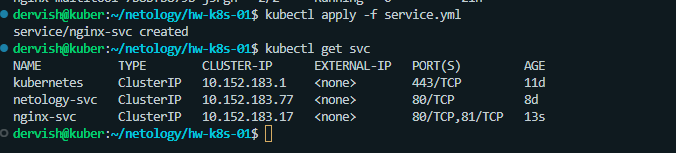
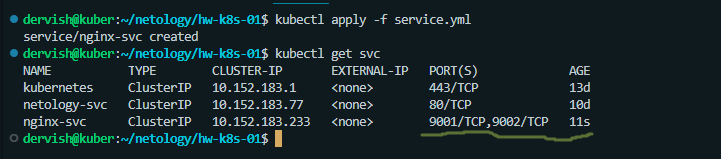
all done

diff --git a/README.md b/README.md
@@ -1,58 +1,59 @@
-# Домашнее задание к занятию «Запуск приложений в K8S»
+# Домашнее задание к занятию «Сетевое взаимодействие в K8S. Часть 1»
 
 ## Цель задания
 
-В тестовой среде для работы с Kubernetes, установленной в предыдущем ДЗ, необходимо развернуть Deployment с приложением, состоящим из нескольких контейнеров, и масштабировать его.
+В тестовой среде Kubernetes необходимо обеспечить доступ к приложению, установленному в предыдущем ДЗ и состоящему из двух контейнеров, по разным портам в разные контейнеры как внутри кластера, так и снаружи.
 
 ## Чеклист готовности к домашнему заданию
 
 
-    Личный компьютер с ОС Linux или MacOS
+    Установленное k8s-решение (например, MicroK8S).
+    Установленный локальный kubectl.
+    Редактор YAML-файлов с подключённым Git-репозиторием.
 
-или
-    
-    ВМ c ОС Linux в облаке либо ВМ на локальной машине для установки MicroK8S
 
-## Задание 1. Создать Deployment и обеспечить доступ к репликам приложения из другого Pod
+## Задание 1. Создать Deployment и обеспечить доступ к контейнерам приложения по разным портам из другого Pod внутри кластера
 
-Создать Deployment приложения, состоящего из двух контейнеров — nginx и multitool. Решить возникшую ошибку.
+Создать Deployment приложения, состоящего из двух контейнеров (nginx и multitool), с количеством реплик 3 шт.
 
 >Ответ: [deploy.yml](./deploy.yml)
 
 ![deploy](./task1/deploy.png)
 
-После запуска увеличить количество реплик работающего приложения до 2.
-Продемонстрировать количество подов до и после масштабирования.
-
-![scaled](./task1/scaled.png)
-
-Создать Service, который обеспечит доступ до реплик приложений из п.1.
+Создать Service, который обеспечит доступ внутри кластера до контейнеров приложения из п.1 по порту 9001 — nginx 80, по 9002 — multitool 8080.
 
 >Ответ: [service.yml](./service.yml)
 
 ![service](./task1/service.png)
 
-Создать отдельный Pod с приложением multitool и убедиться с помощью curl, что из пода есть доступ до приложений из п.1.
+Создать отдельный Pod с приложением multitool и убедиться с помощью curl, что из пода есть доступ до приложения из п.1 по разным портам в разные контейнеры.
 
 ![onepod](./task1/onepod.png)
 ![pods](./task1/pods.png)
 ![curl](./task1/curl.png)
 
+Продемонстрировать доступ с помощью curl по доменному имени сервиса.
 
-## Задание 2. Создать Deployment и обеспечить старт основного контейнера при выполнении условий
+![curl1](./task1/curl1.png)
 
-Создать Deployment приложения nginx и обеспечить старт контейнера только после того, как будет запущен сервис этого приложения.
+Предоставить манифесты Deployment и Service в решении, а также скриншоты или вывод команды п.4.
 
->Ответ: [inideploy.yml](./inideploy.yml)
+>Ответ: [deploy.yml](./deploy.yml)  [service.yml](./service.yml)
 
-Убедиться, что nginx не стартует. В качестве Init-контейнера взять busybox.
+![curl1](./task1/curl1.png)
 
-![init](./task2/init.png)
 
-Создать и запустить Service. Убедиться, что Init запустился.
 
->Ответ: [services.yml](./services.yml)
+## Задание 2. Создать Service и обеспечить доступ к приложениям снаружи кластера
 
-Продемонстрировать состояние пода до и после запуска сервиса.
+Создать отдельный Service приложения из Задания 1 с возможностью доступа снаружи кластера к nginx, используя тип NodePort.
 
-![run](./task2/run.png)
+![node](./task2/node.png)
+
+Продемонстрировать доступ с помощью браузера или curl с локального компьютера.
+
+![curl](./task2/curl.png)
+
+Предоставить манифест и Service в решении, а также скриншоты или вывод команды п.2.
+
+>Ответ: [ext_svc.yml](./ext_svc.yml)
